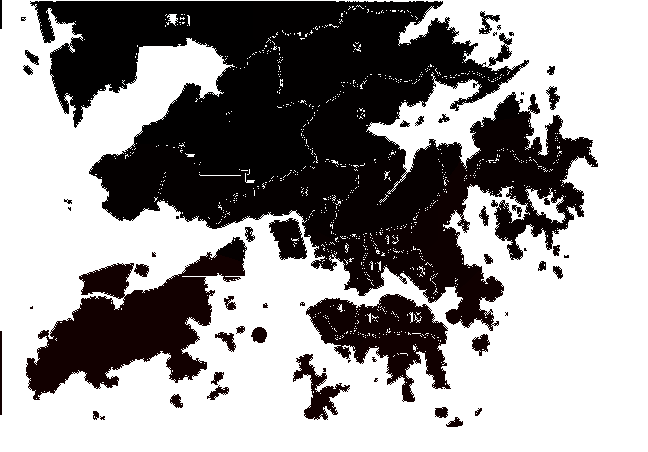
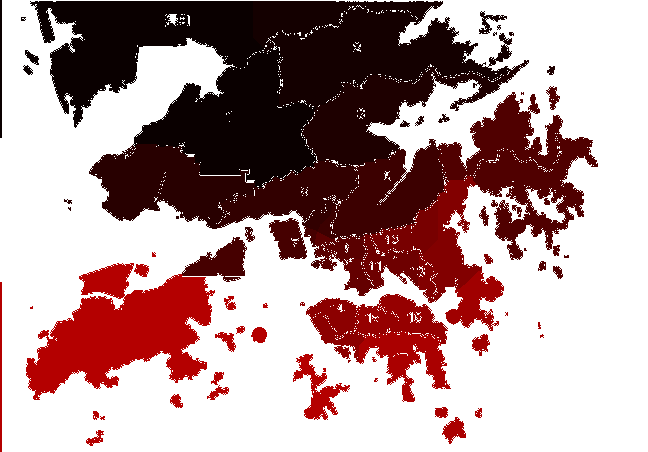
Read district shapes without browser color conversion.
Store district ids as red*10 and decode the hit map with
colorSpaceConversion none so dark reds are not crushed.

diff --git a/src/lib/hk-districts.ts b/src/lib/hk-districts.ts
@@ -44,24 +44,23 @@ export function shuffleDistricts(districts: District[] = DISTRICTS): District[] 
   return next;
 }
 
-export function loadHitMap(src: string = HIT_MAP_SRC): Promise<ImageData> {
-  return new Promise((resolve, reject) => {
-    const image = new Image();
-    image.onload = () => {
-      const canvas = document.createElement("canvas");
-      canvas.width = image.naturalWidth;
-      canvas.height = image.naturalHeight;
-      const context = canvas.getContext("2d");
-      if (!context) {
-        reject(new Error("Could not read the district hit map."));
-        return;
-      }
-      context.drawImage(image, 0, 0);
-      resolve(context.getImageData(0, 0, canvas.width, canvas.height));
-    };
-    image.onerror = () => reject(new Error("Could not load the district hit map."));
-    image.src = src;
-  });
+export async function loadHitMap(src: string = HIT_MAP_SRC): Promise<ImageData> {
+  const response = await fetch(src);
+  if (!response.ok) {
+    throw new Error("Could not load the district hit map.");
+  }
+
+  const blob = await response.blob();
+  const bitmap = await createImageBitmap(blob, { colorSpaceConversion: "none" });
+  const canvas = document.createElement("canvas");
+  canvas.width = bitmap.width;
+  canvas.height = bitmap.height;
+  const context = canvas.getContext("2d", { willReadFrequently: true });
+  if (!context) {
+    throw new Error("Could not read the district hit map.");
+  }
+  context.drawImage(bitmap, 0, 0);
+  return context.getImageData(0, 0, canvas.width, canvas.height);
 }
 
 function sampleDistrictNumber(hitMap: ImageData, x: number, y: number): number {
@@ -70,7 +69,7 @@ function sampleDistrictNumber(hitMap: ImageData, x: number, y: number): number {
   }
   const index = (y * hitMap.width + x) * 4;
   const alpha = hitMap.data[index + 3];
-  const number = hitMap.data[index];
+  const number = Math.round(hitMap.data[index] / 10);
   return alpha > 0 && number >= 1 && number <= 18 ? number : 0;
 }
 

diff --git a/scripts/build-hit-map.py b/scripts/build-hit-map.py
@@ -210,7 +210,7 @@ def main() -> None:
             if number == 0:
                 continue
             counts[number] += 1
-            hit_pixels[x, y] = (number, 0, 0, 255)
+            hit_pixels[x, y] = (number * 10, 0, 0, 255)
             color = PALETTE[number]
             current = preview.getpixel((x, y))
             preview.putpixel(
